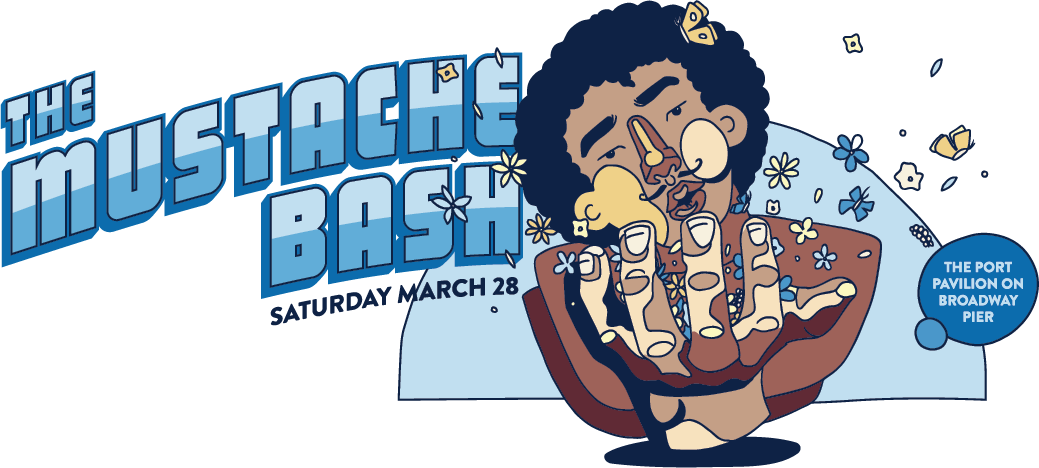
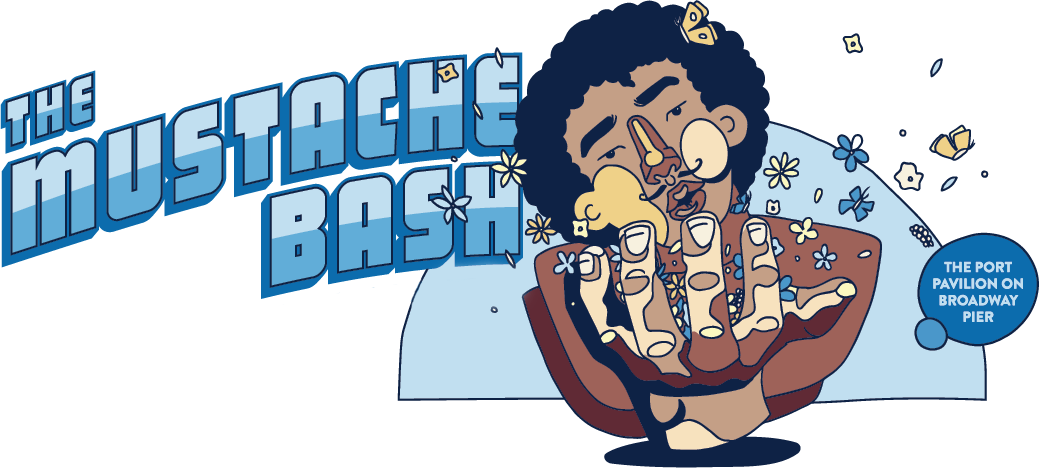
Removed dates, updated google event json

Changed region(s): [[0.2464, 0.5385, 0.5236, 0.688]]

diff --git a/src/index.html b/src/index.html
@@ -21,6 +21,7 @@
 			"name": "The Mustache Bash",
 			"startDate": "2020-03-28T14:00-07:00",
 			"endDate": "2020-03-28T23:00-07:00",
+			"eventStatus": "https://schema.org/EventPostponed",
 			"description": "Family. Freedom. Fun. The Funk. Welcome to The Mustache Bash. The Funkiest Disco Day on Earth.",
 			"location": {
 				"@type": "Place",
@@ -169,11 +170,12 @@
 				<picture>
 					<source media="(min-width: 680px)" srcset="/img/hero.png">
 					<source srcset="/img/hero-mobile.png">
-					<img src="/img/hero.png" alt="Mustache Bash 2020 - Saturday, March 28th, 2020">
+					<img src="/img/hero.png" alt="Mustache Bash 2020 - TBD, 2020">
 				</picture>
 			</div>
 			<div class="cta">
-				<a href="#tickets" id="hero-cta">Get Tickets</a>
+				<!-- <a href="#tickets" id="hero-cta">Get Tickets</a> -->
+				<p>Stay Tuned For Our New 2020 Date!</p>
 			</div>
 		</div>
 	</section>
@@ -268,7 +270,7 @@
 						<div class="img-wrap"><img src="/img/band-yuksek.jpg" alt="Yuksek"></div>
 						<h4>Yuksek</h4>
 						<p>
-							Coming up as a childhood piano protege, this deviant-disco DJ has blossomed into a driving force in the French electronic circuit. Today he travels the world serenading the funky masses with his signature blend of club music, indie, electronic, and of course, disco—a recipe for success come Saturday, March 28!
+							Coming up as a childhood piano protege, this deviant-disco DJ has blossomed into a driving force in the French electronic circuit. Today he travels the world serenading the funky masses with his signature blend of club music, indie, electronic, and of course, disco—a recipe for success!
 						</p>
 						<a class="ghost-button" href="https://soundcloud.com/yuksek" target="_blank">Listen</a>
 					</div>
@@ -435,7 +437,7 @@
 					<h3>Tickets</h3>
 					<h4>Get 'Em While They're Hot</h4>
 					<p>
- 						Capacity is limited so get your tickets before it’s too late! This is a 21+ event &mdash; everyone must show a valid photo ID to enter. Ticket prices go up as the event gets closer.
+ 						Capacity is limited so get your tickets before it’s too late! This is a 21+ event &mdash; everyone must show a valid photo ID to enter. Ticket prices go up as the event gets closer. All sales are final.
  					</p>
 					<div class="flex-row flex-row-mobile">
 						<div class="prices" id="tickets-list">
@@ -506,7 +508,7 @@
  							<div class="review-order">
  								<h6>Review and Purchase</h6>
  								<p class="intro">
- 									Please review your payment details and order summary.
+ 									Please review your payment details and order summary. ALL SALES ARE FINAL!
  								</p>
  								<div class="flex-row summary">
  									<div class="reservation-details">
@@ -540,7 +542,7 @@
  								<p class="confirmation-number">Confirmation: <span></span></p>
  								<p class="tickets-link"><a href="#" rel="nofollow" target="_blank">View Tickets</a></p>
  								<p>
- 									Thank you for your purchase. A confirmation email has been sent to the address you provided (be sure you check your spam!). Bring your tickets and a valid photo ID for each guest at the door. Now grow out those staches and get yourselves some funky threads. We’ll be seeing you March 28th for yet another amazing Bash!
+ 									Thank you for your purchase. A confirmation email has been sent to the address you provided (be sure you check your spam!). Bring your tickets and a valid photo ID for each guest at the door. Now grow out those staches and get yourselves some funky threads. We’ll be seeing you TBD 2020 for yet another amazing Bash!
  								</p>
 								<p class="confirmation-footer">
 									Don't forget to check out our <a href="#faq">FAQ</a> before coming! Email <a href="mailto:contact@mustachebash.com">contact@mustachebash.com</a> for all other questions.

diff --git a/src/main.less b/src/main.less
@@ -283,6 +283,25 @@ header {
 	 			text-align: center;
 			}
 		}
+
+		p {
+ 			display: inline-block;
+ 			background: @navy;
+ 			padding: 0.5em 2em;
+			margin: 0;
+
+			text-transform: uppercase;
+
+			font-family: @proxima;
+ 			font-weight: 700;
+ 			font-size: 1.125em; /* 18/16 */
+ 			color: @white;
+ 			letter-spacing: 1px;
+
+			@media (max-width: @mobile) {
+	 			text-align: center;
+			}
+		}
 	}
 }
 
